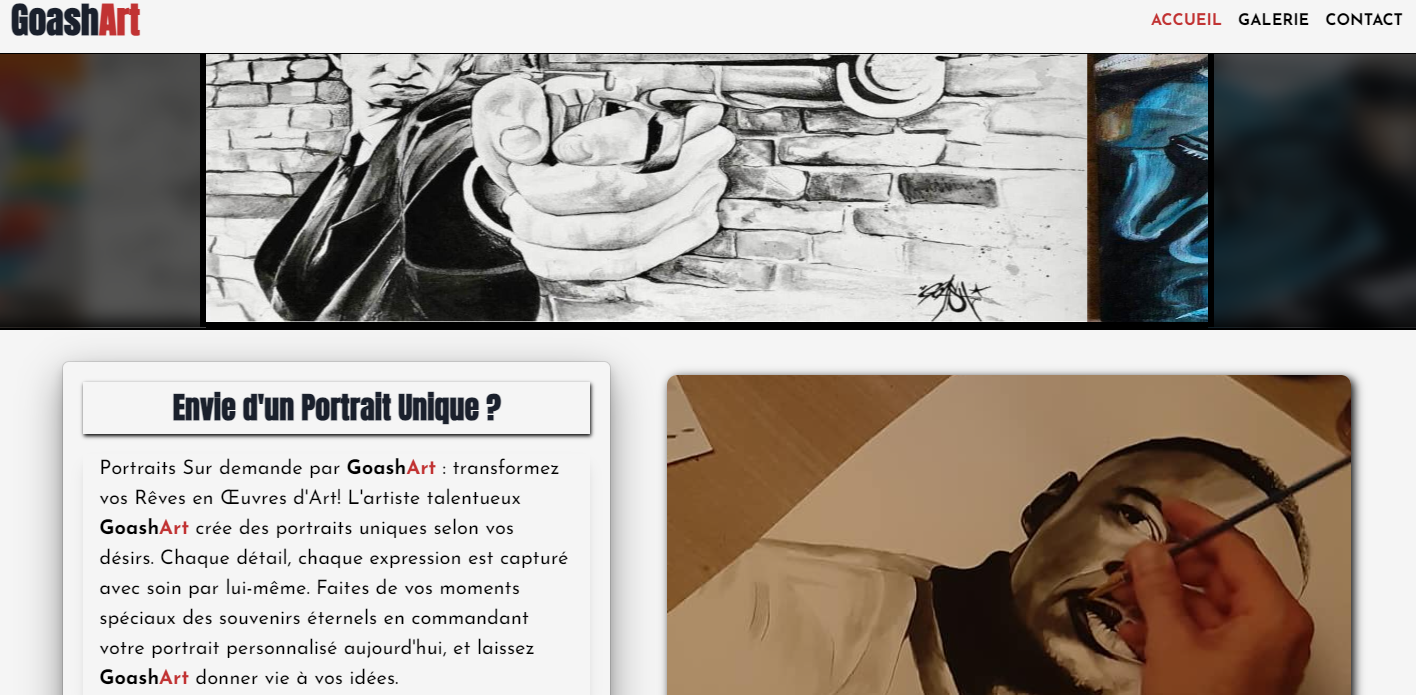
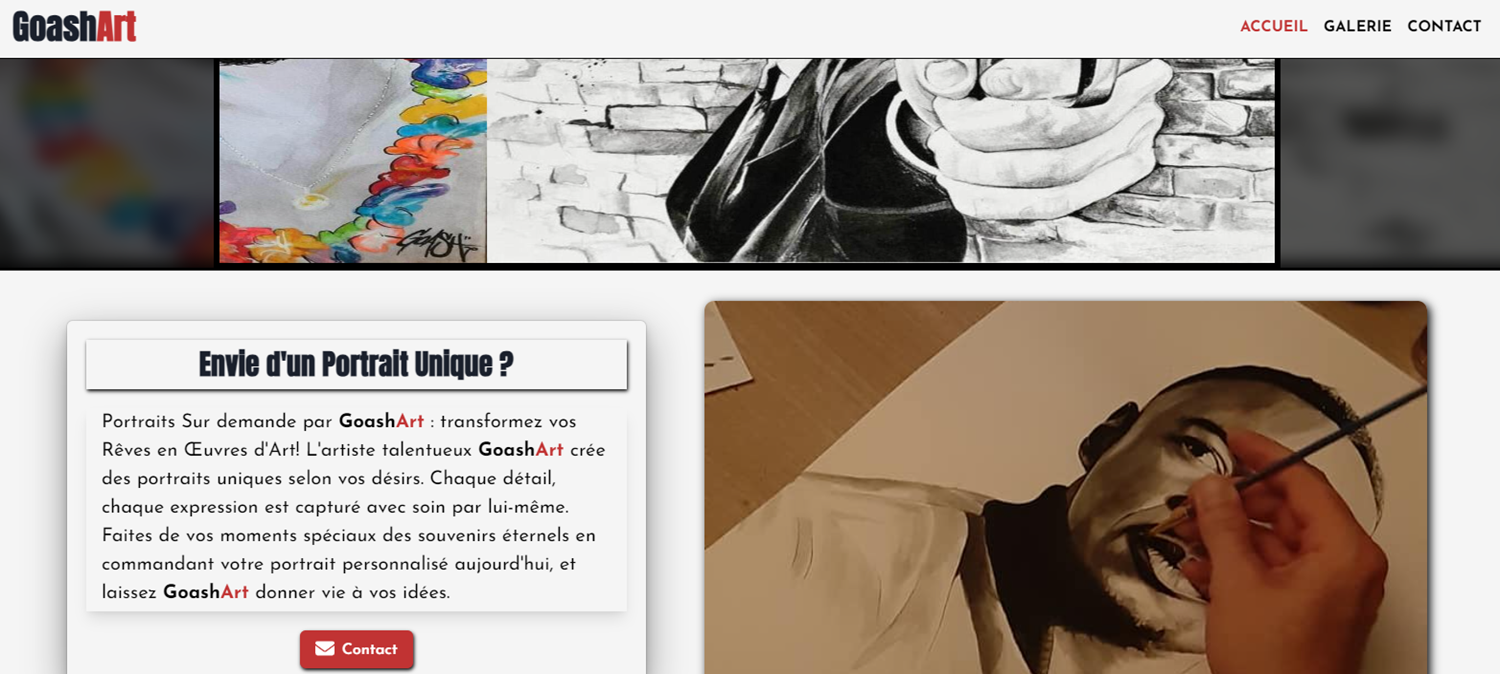
ajout des projets réalisé

diff --git a/app/page.tsx b/app/page.tsx
@@ -43,16 +43,16 @@ export default function Home() {
       </div>
       <Divider />
       <div className="relative z-0 flex flex-col w-full">
-        <h1 className="text-center underline underline-offset-2 md:underline-offset-4 decoration-slate-700 decoration-2 md:decoration-4 font-semibold mt-3 text-3xl sm:text-4xl md:text-5xl lg:text-6xl">
+        <h1 className="text-center underline underline-offset-2 md:underline-offset-4 decoration-slate-700 decoration-2 md:decoration-4 font-semibold mt-3 text-3xl sm:text-4xl md:text-5xl">
           Mes connaissances
         </h1>
         <div className="flex justify-evenly flex-col md:flex-row mt-6">
           <div className="flex justify-center md:ml-3 ">
             <Language />
           </div>
-          <div className="md:w-[500px] mt-4 md:mt-0 mx-4 sm:mx-8 flex flex-wrap justify-between items-center">
+          <div className="md:w-[500px] mt-4 md:mt-8 mx-4 sm:mx-8 flex flex-wrap justify-between">
             <div className="mb-3">
-              <h3 className="relative md:-left-4 underline underline-offset-2 md:underline-offset-3 decoration-slate-700 decoration-1 md:decoration-2 font-semibold mb-3 text-2xl md:text-3xl lg:text-4xl">
+              <h3 className="relative md:-left-4 underline underline-offset-2 md:underline-offset-3 decoration-slate-700 decoration-1 md:decoration-2 font-semibold mb-3 text-2xl md:text-3xl ">
                 Front-end
               </h3>
               <ul className="text-base sm:text-lg md:text-xl md:list-disc">
@@ -63,22 +63,24 @@ export default function Home() {
               </ul>
             </div>
             <div className="mx-4 mb-3">
-              <h3 className="relative md:-left-4 underline underline-offset-2 md:underline-offset-3 decoration-slate-700 decoration-1 md:decoration-2 font-semibold mb-3 text-2xl md:text-3xl lg:text-4xl">
+              <h3 className="relative md:-left-4 underline underline-offset-2 md:underline-offset-3 decoration-slate-700 decoration-1 md:decoration-2 font-semibold mb-3 text-2xl md:text-3xl">
                 Back-end
               </h3>
               <ul className="text-base sm:text-lg md:text-xl md:list-disc">
-                <li>Node</li>
+                <li>Node.js</li>
                 <li>MongoDb</li>
+                <li>Express.js</li>
                 <li>Vercel</li>
                 <li>Formfree</li>
               </ul>
             </div>
             <div className="mb-3">
-              <h3 className="relative md:-left-4 underline underline-offset-2 md:underline-offset-3 decoration-slate-700 decoration-1 md:decoration-2 font-semibold mb-3 text-2xl md:text-3xl lg:text-4xl">
-                UI/UX
+              <h3 className="relative md:-left-4 underline underline-offset-2 md:underline-offset-3 decoration-slate-700 decoration-1 md:decoration-2 font-semibold mb-3 text-2xl md:text-3xl">
+                UI/UX design
               </h3>
               <ul className="text-base sm:text-lg md:text-xl md:list-disc">
                 <li>CSS</li>
+                <li>Module.css</li>
                 <li>ChakraUi</li>
                 <li>Tailwind CSS</li>
                 <li>Shadcn/ui</li>
@@ -89,10 +91,10 @@ export default function Home() {
       </div>
       <Divider />
       <div>
-        <h1 className="text-center underline underline-offset-2 md:underline-offset-4 decoration-slate-700 decoration-2 md:decoration-4 font-semibold mt-3 text-3xl sm:text-4xl md:text-5xl lg:text-6xl">
+        <h1 className="text-center underline underline-offset-2 md:underline-offset-4 decoration-slate-700 decoration-2 md:decoration-4 font-semibold mt-3 text-3xl sm:text-4xl md:text-5xl">
           Mes projets
         </h1>
-        <div className="mt-10 p-3 grid grid-cols-1 sm:grid-cols-2 md:grid-cols-3 xl:grid-cols-4 gap-4">
+        <div className="mt-10 p-3 grid grid-cols-1 sm:grid-cols-2 lg:grid-cols-3 xl:grid-cols-4 gap-4">
           {DataProjects.map((project) => (
             <CardProjects
               key={project.title}

diff --git a/components/CardProjects.tsx b/components/CardProjects.tsx
@@ -13,6 +13,8 @@ import {
   CardTitle,
 } from '@/components/ui/card';
 import Image from 'next/image';
+import { Button } from './ui/button';
+import Divider from './Divider';
 
 interface CardProjectsProps {
   title: string;
@@ -31,12 +33,17 @@ const CardProjects = ({
 }: CardProjectsProps) => {
   const router = useRouter();
   return (
-    <Card className="">
-      <CardHeader>
-        <CardTitle>{title}</CardTitle>
-        <CardDescription>{description}</CardDescription>
+    <Card className="bg-slate-200 dark:bg-dark-bg shadow-md">
+      <CardHeader className=" pt-2 sm:min-h-[150px]">
+        <CardTitle className="dark:text-gray-400 pb-2 font-bold">
+          {title}
+        </CardTitle>
+        <Divider />
+        <CardDescription className="text-gray-600 dark:text-gray-500 sm:text-base">
+          {description}
+        </CardDescription>
       </CardHeader>
-      <CardContent className="p-2">
+      <CardContent className="p-3 shadow-md">
         <Image
           src={image}
           alt="kasaImage"
@@ -46,25 +53,39 @@ const CardProjects = ({
           }}
         />
       </CardContent>
-      <CardFooter className="flex flex-col">
-        {githubLink && (
-          <Image
-            src={LogoGithub}
-            alt="logo-github"
-            style={{
-              width: '35px',
-              height: '35px',
-            }}
-            className="cursor-pointer bg-black rounded-full border border-black"
-            onClick={() => router.push(githubLink)}
-          />
-        )}
 
-        <p
-          className="cursor-pointer"
-          onClick={() => router.push(link)}>
-          {link}
-        </p>
+      <CardFooter className="flex flex-col pb-2">
+        <Divider />
+        <div
+          className={`w-full flex items-center mt-3 pb-0 ${
+            !link ? 'flex justify-end' : 'flex justify-between'
+          }`}>
+          {link && (
+            <Button
+              className={`cursor-pointer h-9 w-[150px] ${
+                !githubLink && 'sm:mt-2'
+              }`}
+              onClick={() => router.push(link)}>
+              Voir site
+            </Button>
+          )}
+          {githubLink && (
+            <div
+              onClick={() => router.push(githubLink)}
+              className="flex flex-col items-center cursor-pointer hover:opacity-70">
+              <Image
+                src={LogoGithub}
+                alt="logo-github"
+                style={{
+                  width: '35px',
+                  height: '35px',
+                }}
+                className="bg-black rounded-full border border-black"
+              />
+              <p className="font-semibold">Github</p>
+            </div>
+          )}
+        </div>
       </CardFooter>
     </Card>
   );

diff --git a/data/DataProjects.ts b/data/DataProjects.ts
@@ -1,7 +1,28 @@
 import kasaImage from '@/public/kasa.png';
-import GoashArtImage from '@/public/goashart.png';
+import GoashArtImage from '@/public/goashArt.png';
+import OhmyfoodImage from '@/public/ohmyfood.png';
+import PanthereImage from '@/public/panthere.png';
+import KanapImage from '@/public/kanap.png';
+import PiquanteImage from '@/public/piquante.png';
+import PortfolioImage from '@/public/portfolio.png';
 
 export const DataProjects = [
+  {
+    title: 'GoashArt',
+    description:
+      'Projet réalisé avec NextJs, Typescrypt et ChakraUi, hébergé sur Vercel',
+    image: GoashArtImage,
+    githubLink: '',
+    link: 'https://goashart.vercel.app/',
+  },
+  {
+    title: 'Mon Portfolio',
+    description:
+      'Projet réalisé avec next.js, Typescrypt, shadcn/ui, hébergé sur vercel',
+    image: PortfolioImage,
+    githubLink: 'https://github.com/Yann68/mon-porfolio',
+    link: '',
+  },
   {
     title: 'Kasa',
     description:
@@ -11,24 +32,32 @@ export const DataProjects = [
     link: 'https://kasa-yann68.vercel.app/',
   },
   {
-    title: 'GoashArt',
-    description: 'Projet réalisé avec NextJs et ChakraUi, hébergé sur Vercel',
-    image: GoashArtImage,
-    githubLink: '',
-    link: 'https://goashart.vercel.app/',
+    title: 'Ohmyfood',
+    description: 'Projet réalisé avec Html et CSS, hébergé sur github-page',
+    image: OhmyfoodImage,
+    githubLink: 'https://github.com/Yann68/Yann68.github.io',
+    link: 'https://yann68.github.io',
   },
   {
-    title: 'GoashArt',
-    description: 'Projet réalisé avec NextJs et ChakraUi, hébergé sur Vercel',
-    image: GoashArtImage,
-    githubLink: '',
-    link: 'https://goashart.vercel.app/',
+    title: 'La panthère',
+    description:
+      'Projet basé sur le référencement SEO et validation CSS, hébergé sur github-page',
+    image: PanthereImage,
+    githubLink: 'https://github.com/Yann68/la-panthere',
+    link: 'https://yann68.github.io/la-panthere/',
   },
   {
-    title: 'GoashArt',
-    description: 'Projet réalisé avec NextJs et ChakraUi, hébergé sur Vercel',
-    image: GoashArtImage,
-    githubLink: '',
-    link: 'https://goashart.vercel.app/',
+    title: 'Kanap',
+    description: 'Projet réalisé avec javascript et CSS',
+    image: KanapImage,
+    githubLink: 'https://github.com/Yann68/kanap',
+    link: '',
+  },
+  {
+    title: 'Piquante',
+    description: 'Projet basé sur le back-end avec node.js et express.js',
+    image: PiquanteImage,
+    githubLink: 'https://github.com/Yann68/piquante',
+    link: '',
   },
 ];

diff --git a/app/layout.tsx b/app/layout.tsx
@@ -23,7 +23,7 @@ export default function RootLayout({
         lang="en"
         suppressHydrationWarning>
         <body
-          className={`${font.className}, text-gray-500 bg-[#ECECEC] dark:bg-dark-bg dark:text-slate-400`}>
+          className={`${font.className}, text-gray-600 bg-[#ECECEC] dark:bg-dark-bg dark:text-slate-400`}>
           <ThemeProvider
             attribute="class"
             defaultTheme="dark"
